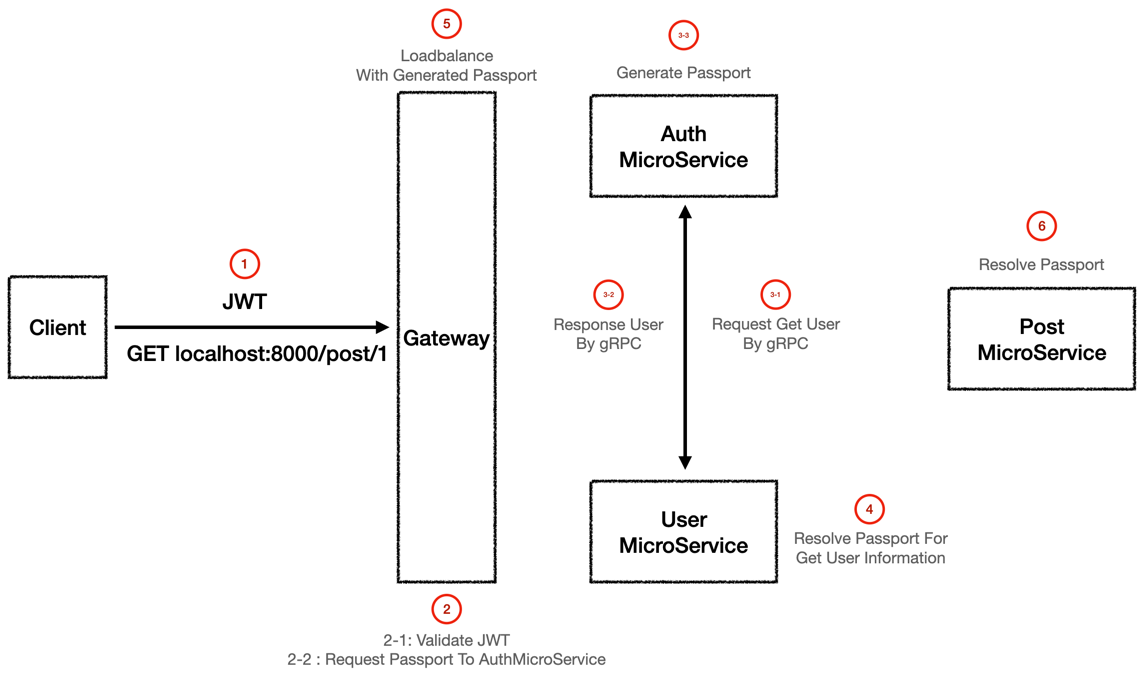
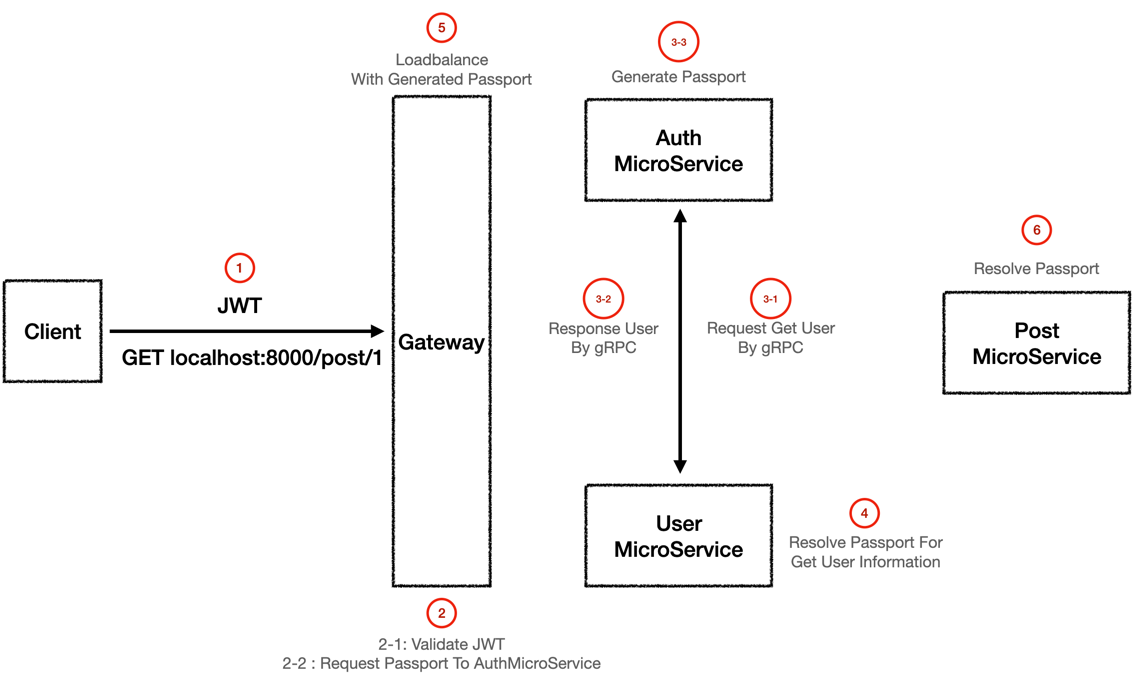
기본이 중요하다 [Passport]

Changed region(s): [[0.463, 0.0308, 0.8333, 0.8622], [0.0, 0.0, 0.5247, 0.9853], [0.8025, 0.3079, 1.0, 0.585]]

diff --git a/_posts/2024-02-15-Passport.md b/_posts/2024-02-15-Passport.md
@@ -50,6 +50,8 @@ MSA는 비즈니스로직을 처리하기위해 여러 마이크로서비스와 
 
 ![](https://github.com/K-Diger/K-Diger.github.io/blob/main/images/passport/passportflow.png?raw=true)
 
+![img.png](../images/passport/passportflow.png)
+
 현재 내 프로젝트에서는 위 플로우로 개선했지만 앞으로는 Passport를 발급하기 위해 Gateway -> AuthMicroService로 요청하는 것이 아니라 Gateway에서 수행할 수 있도록 개선할 예정이다.
 
 ---
